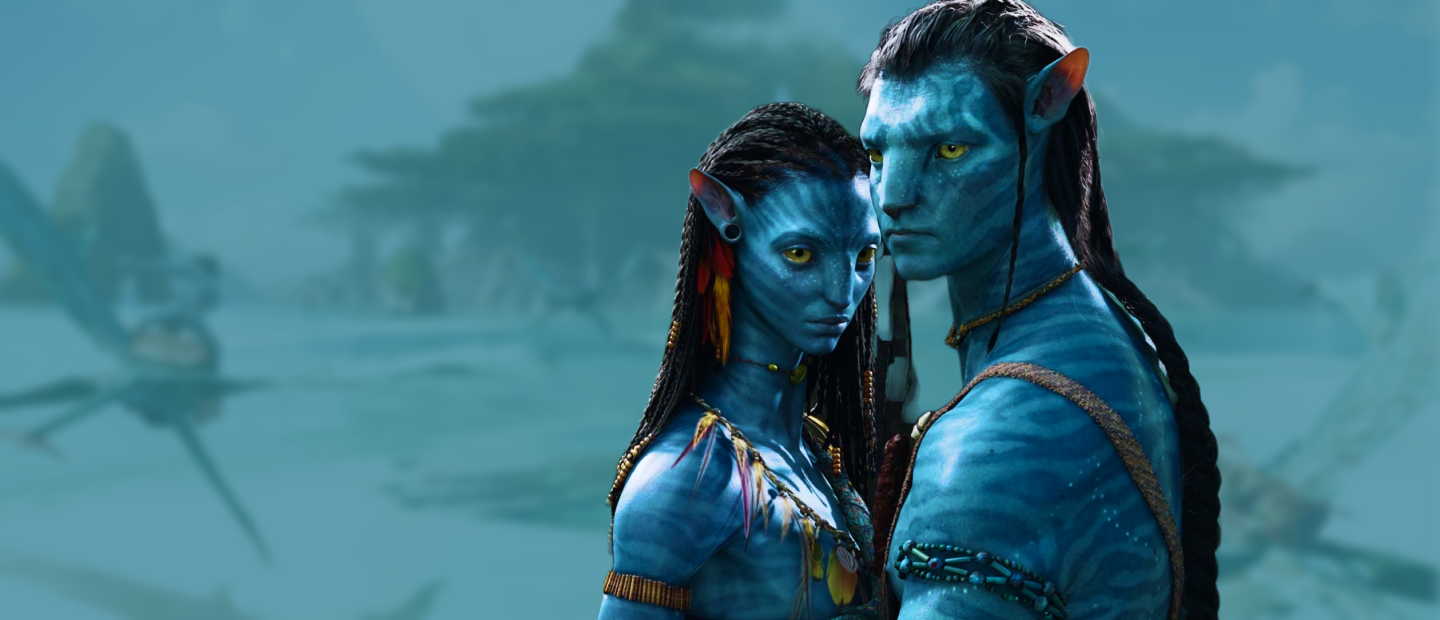
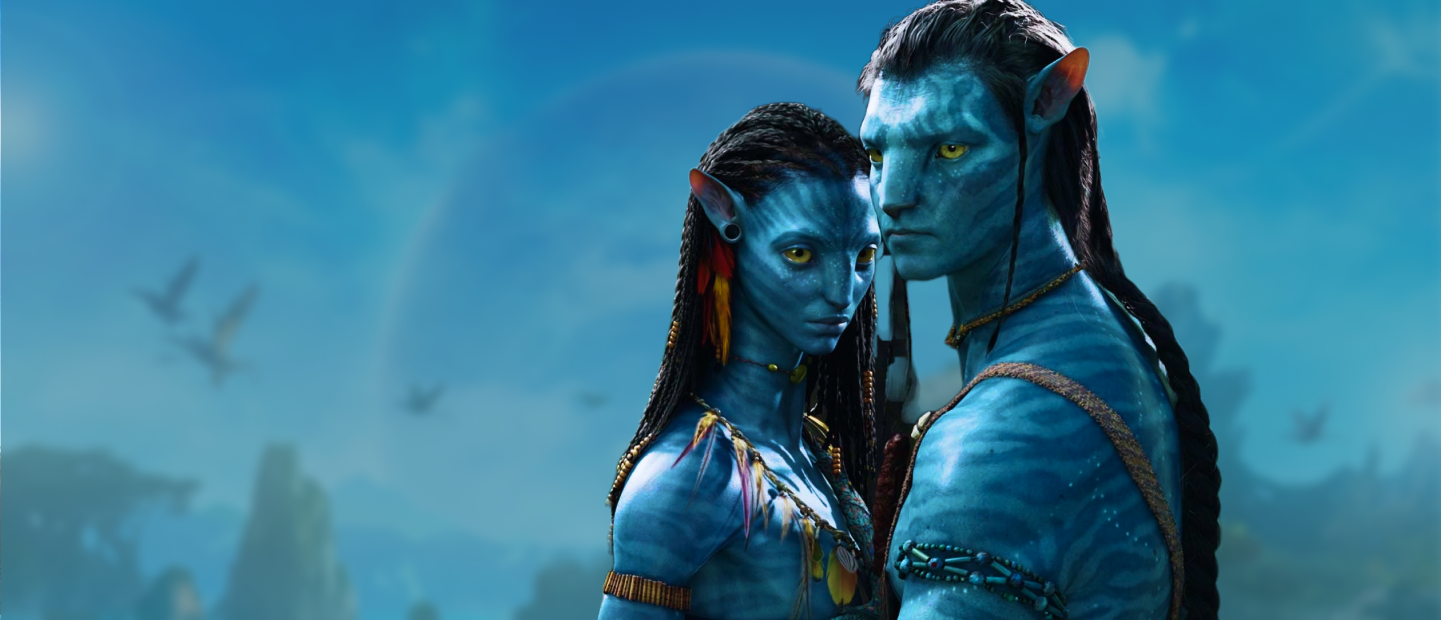
mobile - hero

diff --git a/src/styles/style.scss b/src/styles/style.scss
@@ -15,7 +15,7 @@ $colorLigth: #2f474f;
 body {
   font-family: "Inter", sans-serif;
   color: $brightColour;
-  background: linear-gradient(#001c24, #064a5f);
+  background: linear-gradient($colorTextDark, $darkColor);
 }
 
 img {
@@ -33,10 +33,12 @@ img {
   align-items: center;
   justify-content: center;
   z-index: 9999;
+  margin: 30px;
 }
 
 .modal iframe {
   border: none;
+  
 }
 
 .header {
@@ -53,12 +55,12 @@ img {
     align-items: center;
     flex-wrap: wrap;
   }
-  &__image{
-   img{
-    @media only screen and (max-width: 575px){
-      width: 25px;
+  &__image {
+    img {
+      @media only screen and (max-width: 575px) {
+        width: 25px;
+      }
     }
-   }
   }
   &__nav {
     &__lista {
@@ -87,13 +89,25 @@ img {
   width: 100%;
   display: flex;
   align-items: center;
+  @media only screen and (max-width: 575px) {
+    background: no-repeat url(/src/images/bg_mobile.png);
+    height: 100%;
+    background-size: cover;
+    display: block;
+  }
+  @media only screen and (min-width: 576px) and (max-width: 799px) {
+    background: no-repeat url(/src/images/bg_tablet.png);
+    height: 100%;
+    background-size: cover;
+    display: block;
+  }
 
   &__container {
     display: flex;
     flex-direction: column;
     margin-top: 60px;
     @media only screen and (max-width: 575px) {
-      margin: 20px 0;
+      // margin-bottom: -320px;
     }
   }
   &__image {
@@ -101,7 +115,14 @@ img {
     width: 364px;
     display: block;
     @media only screen and (max-width: 575px) {
-      width: 250px;
+      display: none;
+    }
+  }
+  &__mobile {
+    display: none;
+    @media only screen and (max-width: 575px) {
+      display: flex;
+      justify-content: center;
     }
   }
   &__lista {
@@ -116,6 +137,9 @@ img {
   }
   &__texto {
     max-width: 486px;
+    @media only screen and (min-width: 576px) and (max-width: 799px) {
+      max-width: 375px;
+    }
   }
   &__resume {
     font-size: 1rem;
@@ -127,6 +151,10 @@ img {
     display: flex;
     gap: 20px;
     margin-top: 20px;
+    @media only screen and (max-width: 575px) {
+      display: flex;
+      flex-direction: column;
+    }
   }
   &__link {
     font-size: 1rem;
@@ -145,8 +173,8 @@ img {
   background-color: $darkColor;
   color: $brightColour;
   padding: 15px 40px;
-  @media only screen and (max-width:575px){
-    padding: 15px;
+  @media only screen and (max-width: 575px) {
+    text-align: center;
   }
   &:hover {
     background-color: darken($darkColor, 5%);
@@ -156,8 +184,8 @@ img {
   background-color: #2f474f;
   color: $brightColour;
   padding: 15px 20px;
-  @media only screen and (max-width:575px){
-    padding: 15px;
+  @media only screen and (max-width: 575px) {
+    text-align: center;
   }
   &:hover {
     background-color: darken(#2f474f, 5%);
@@ -168,7 +196,7 @@ img {
   &__container {
     display: flex;
     gap: 20px;
-    @media only screen and (max-width: 767px){
+    @media only screen and (max-width: 767px) {
       display: block;
     }
   }
@@ -177,7 +205,7 @@ img {
     img {
       border-radius: 10px;
       width: 320px;
-      @media only screen and (max-width: 767px){
+      @media only screen and (max-width: 767px) {
         width: 100%;
         margin-bottom: 20px;
       }
@@ -187,7 +215,7 @@ img {
     p {
       margin-top: 15px;
     }
-    h2{
+    h2 {
       @media only screen and (max-width: 860px) {
         font-size: 20px;
       }
@@ -200,10 +228,10 @@ img {
     display: flex;
     gap: 20px;
     flex-wrap: nowrap;
-    @media only screen and (min-width:481px) and (max-width: 990px){
+    @media only screen and (min-width: 481px) and (max-width: 990px) {
       gap: 10px;
     }
-    @media only screen and (max-width: 480px){
+    @media only screen and (max-width: 480px) {
       gap: 5px;
     }
   }
@@ -221,10 +249,10 @@ img {
   &__container {
     max-width: 100%;
   }
-  img{
-    @media only screen and (max-width: 575px){
+  img {
+    @media only screen and (max-width: 575px) {
       width: 100px;
-      margin: 20px 0
+      margin: 20px 0;
     }
   }
 }
@@ -247,3 +275,4 @@ img {
 .slider__indicator.active {
   background-color: $colorTextDark;
 }
+

diff --git a/index.html b/index.html
@@ -36,6 +36,9 @@
       <div class="hero__image">
         <img src="/src/images/logotipo/logo_large.svg" alt="Logotipo Avatar">
       </div>
+      <div class="hero__mobile">
+        <img src="/src/images/avatar_mobile.png" alt="Logotipo Avatar">
+      </div>
       <div class="hero__lista">
         <ul class="hero__item">
           <li>3h12m</li>

diff --git a/src/scripts/script.js b/src/scripts/script.js
@@ -27,6 +27,8 @@
     });
   });
 
+  
+
   //Slide images
 
   const imagesList = document.querySelector('.images__lista');
